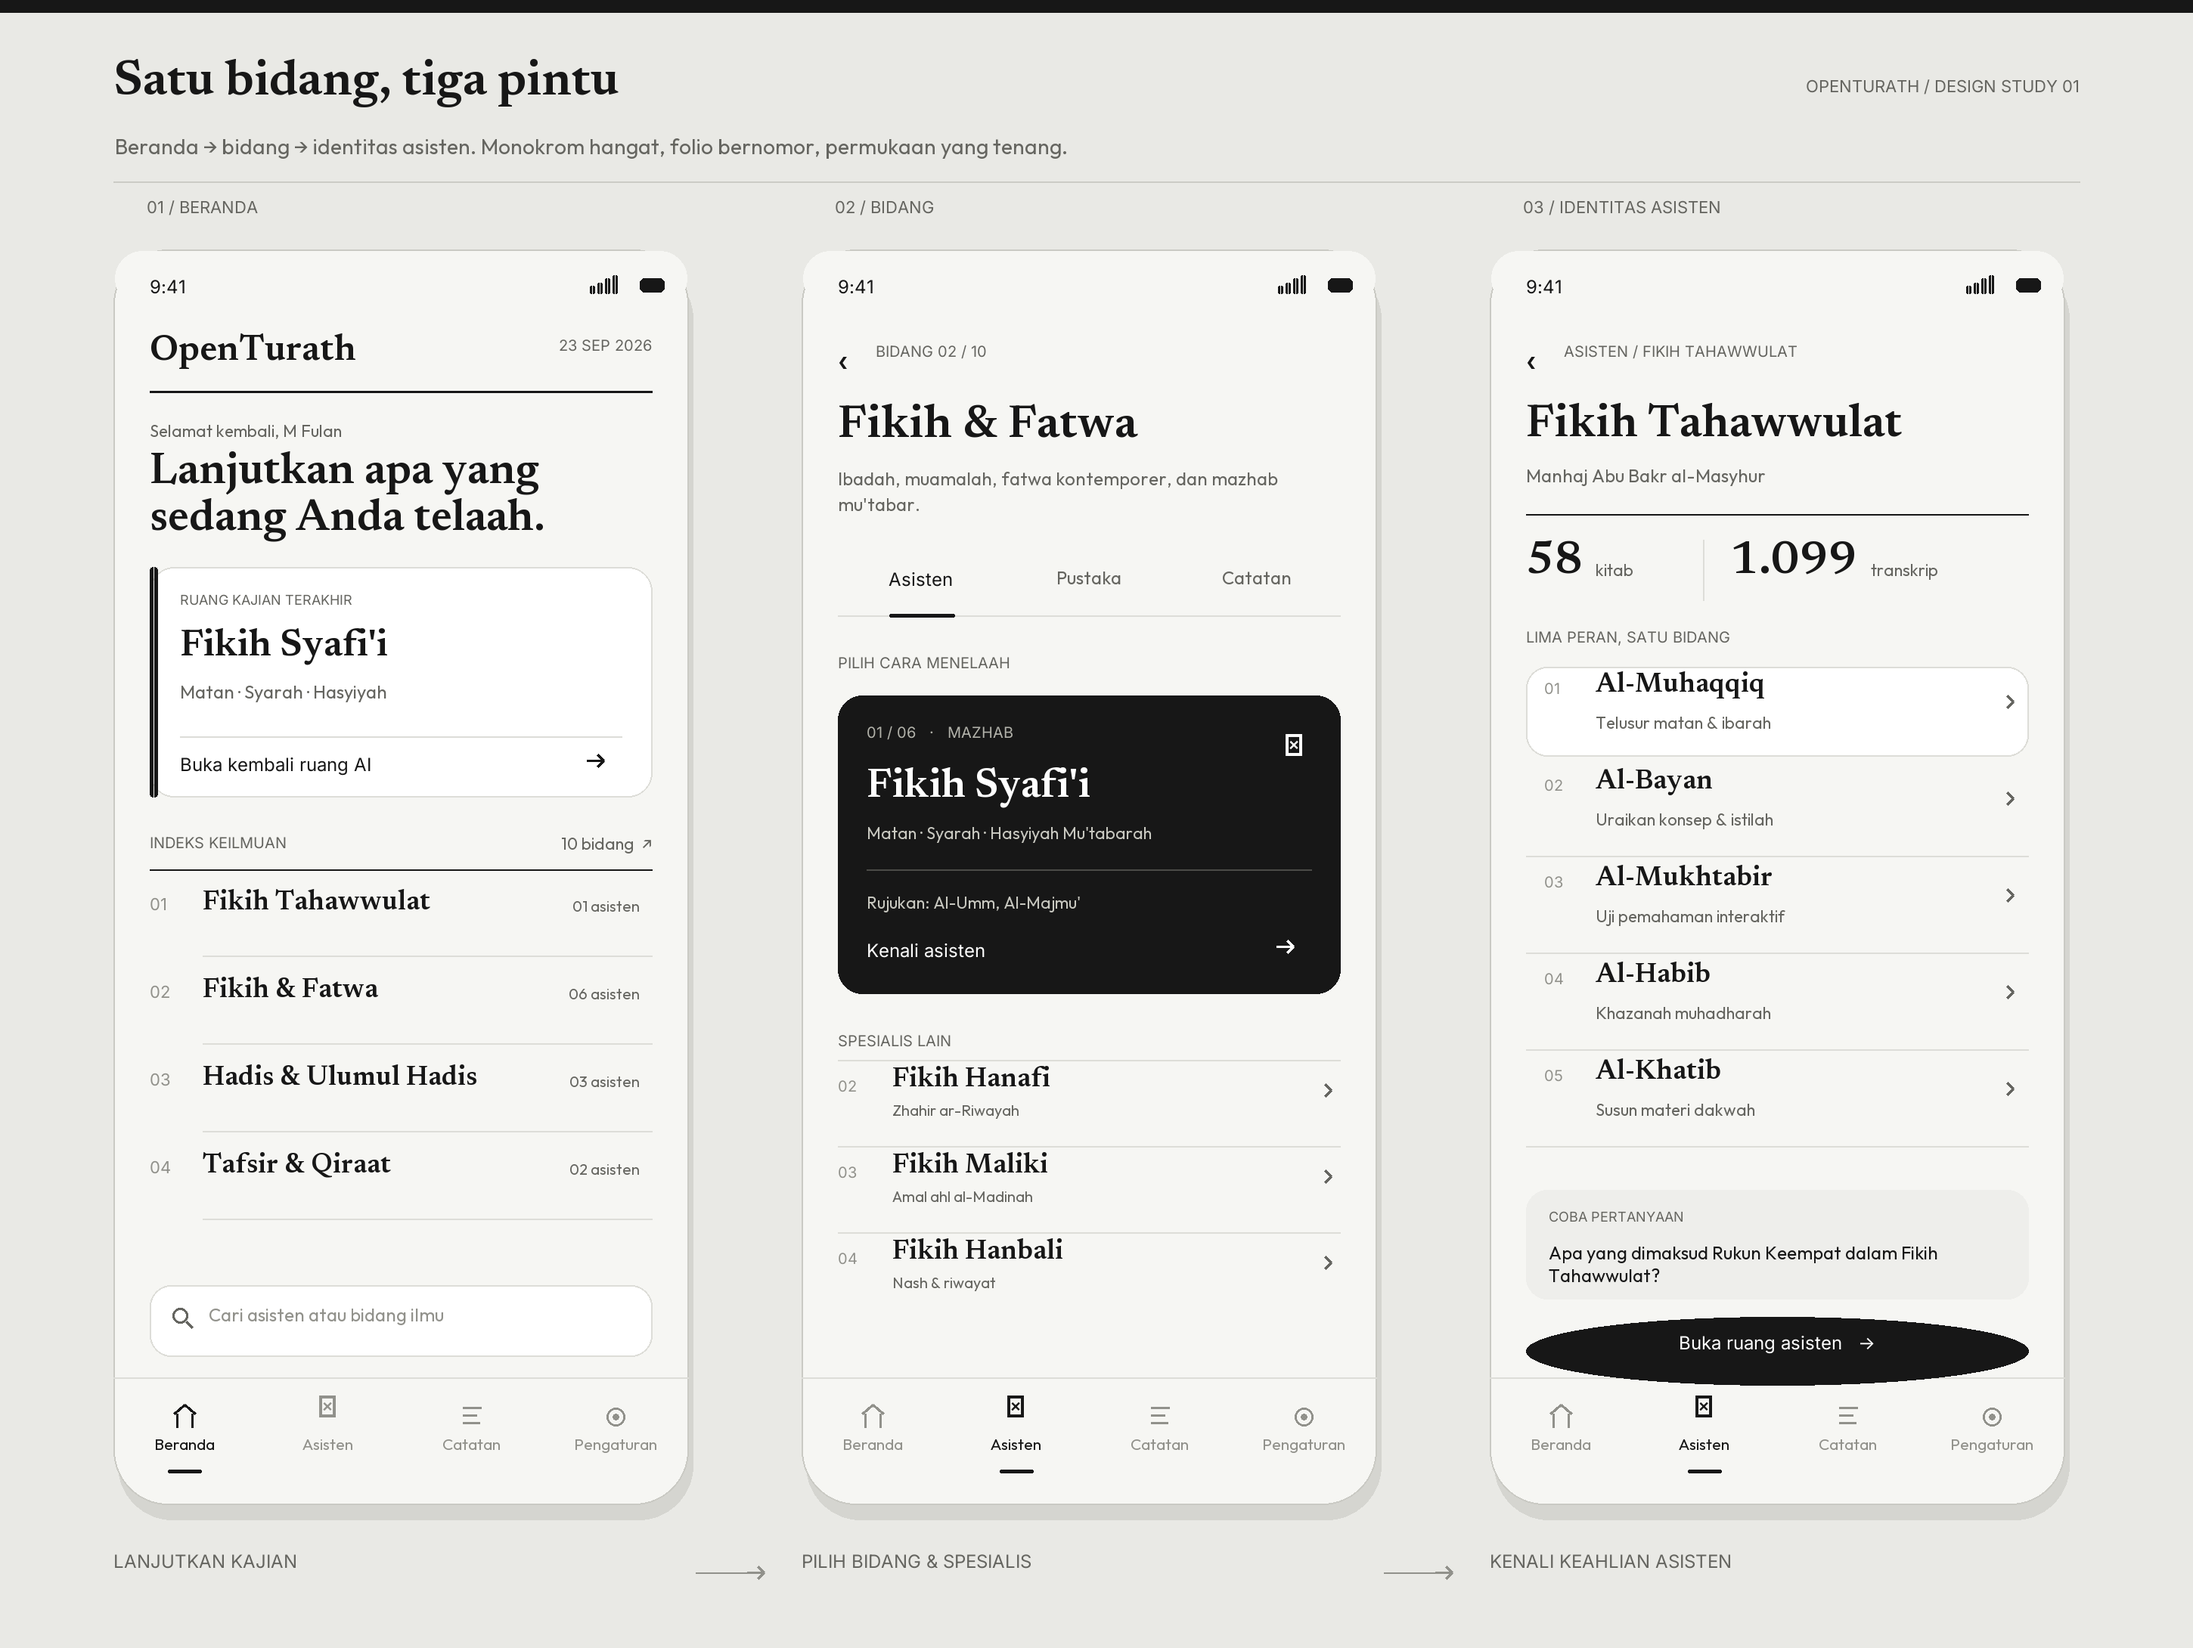
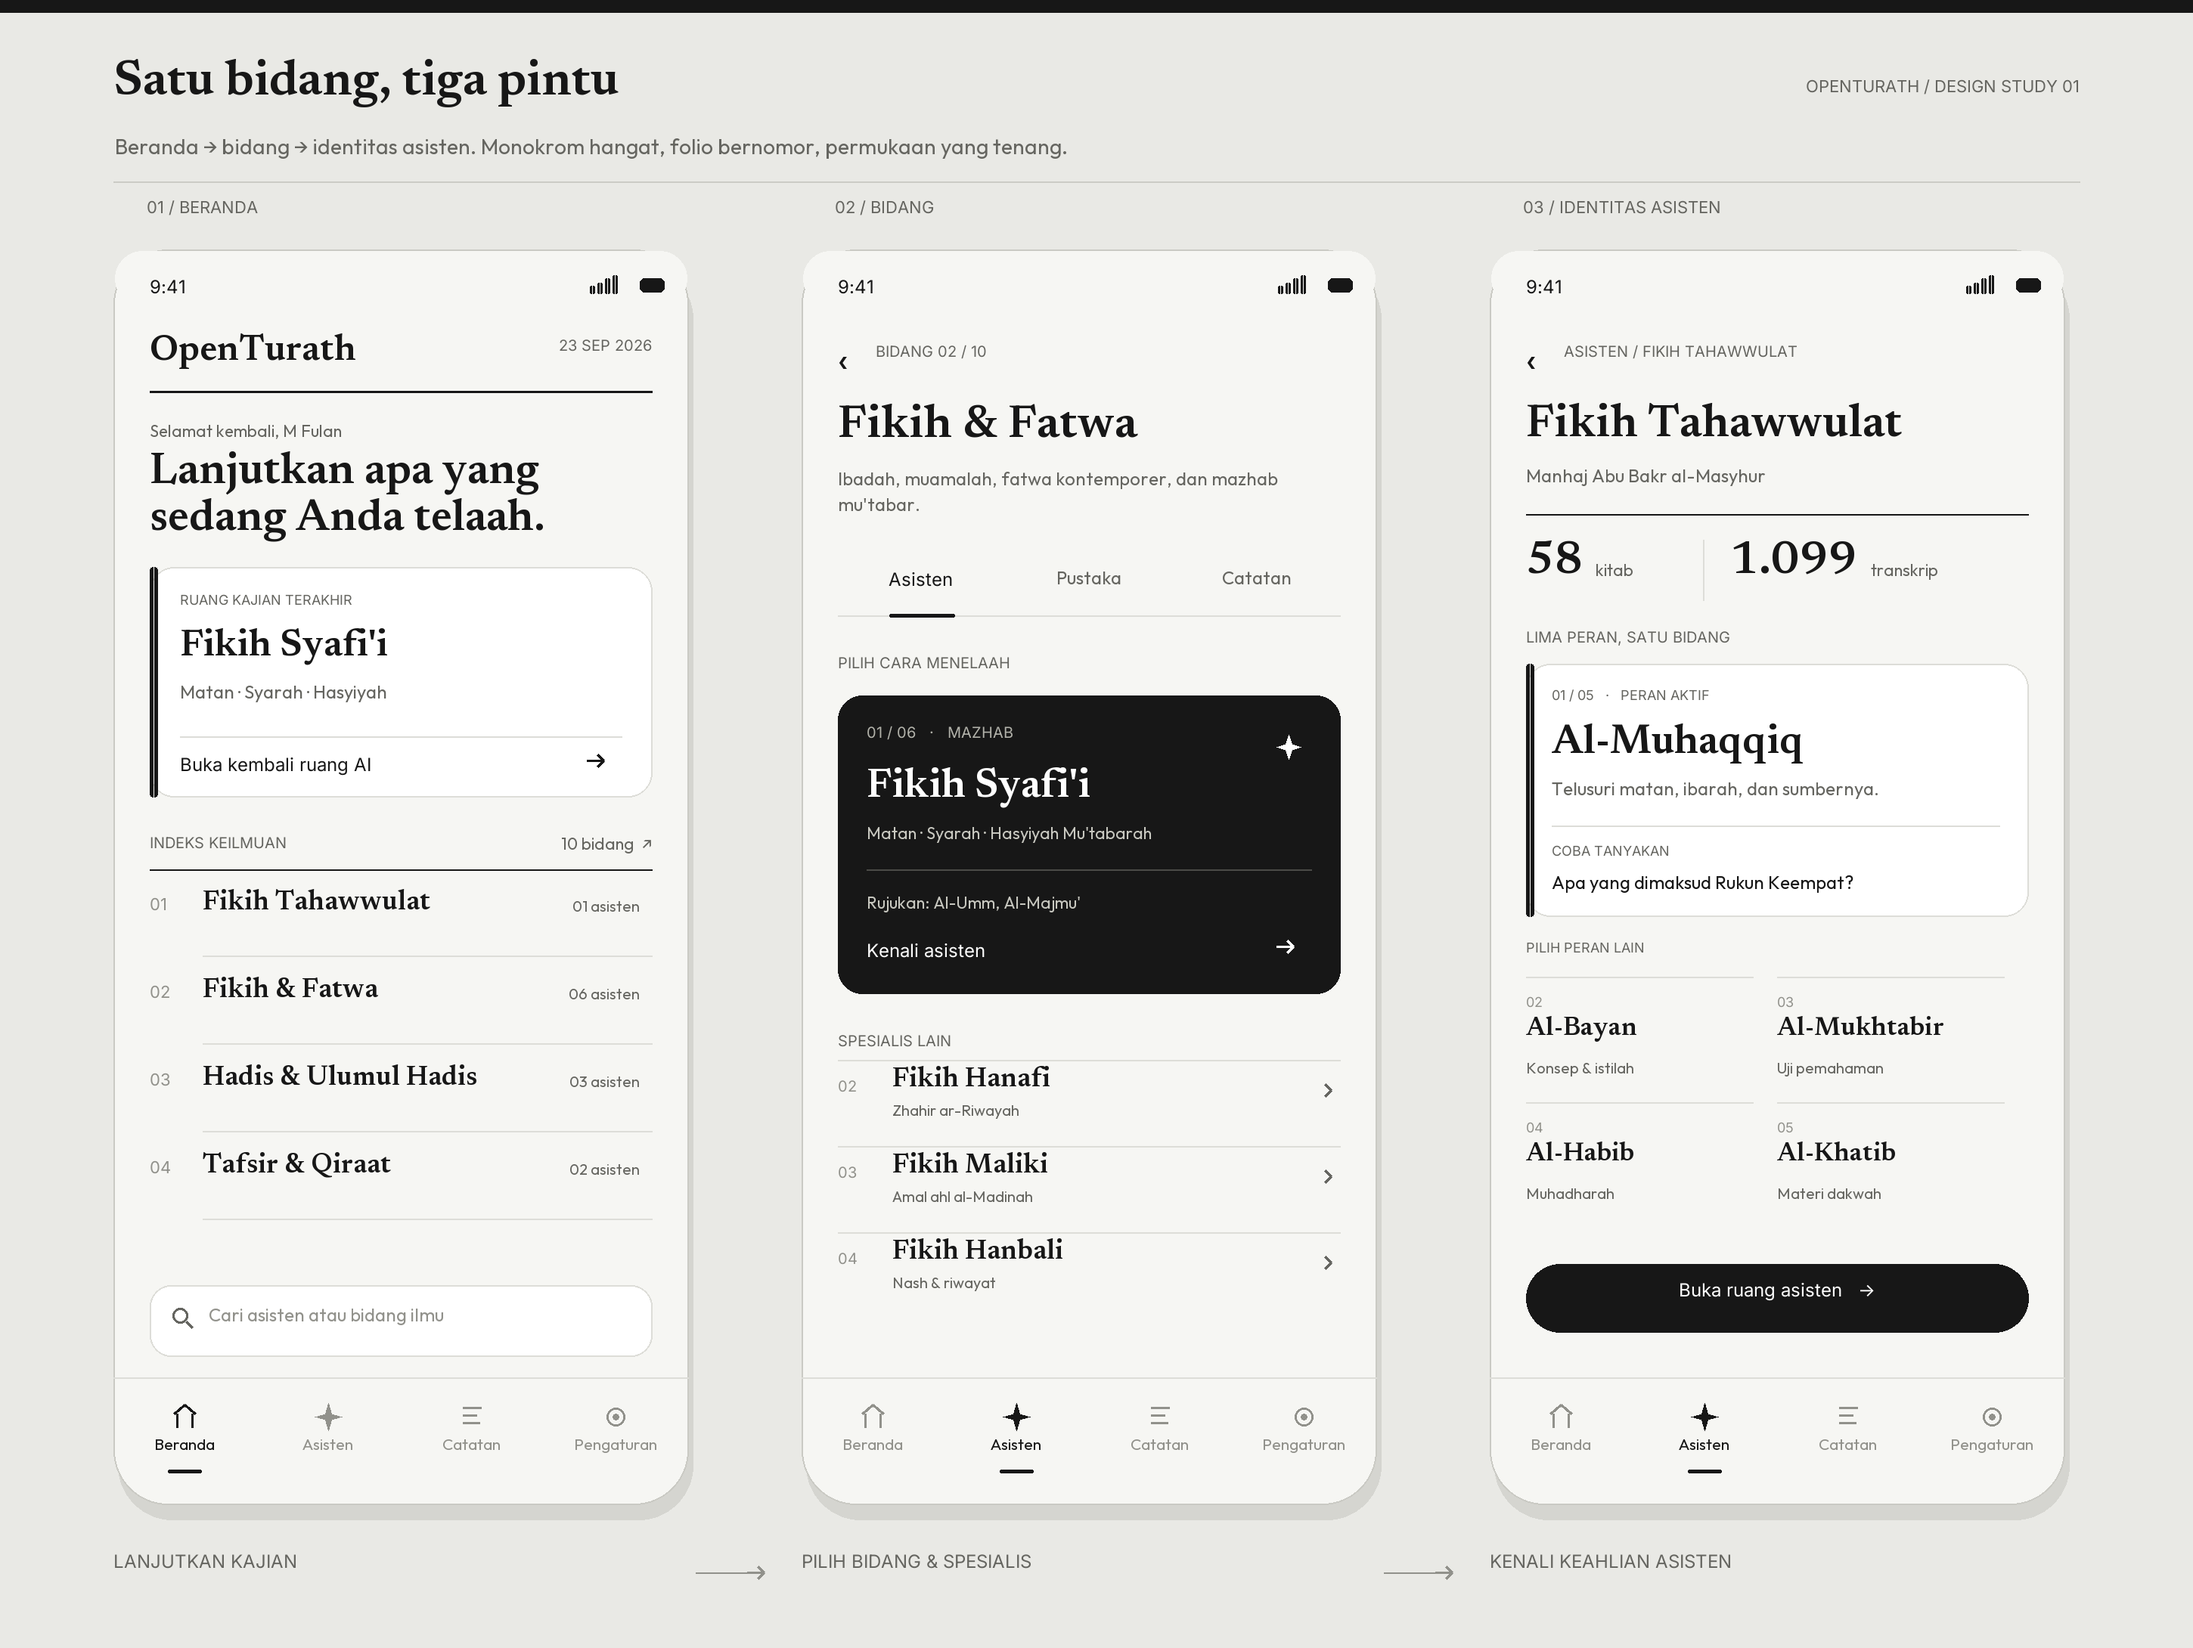
design(folio): refine assistant role workbench and mobile spacing

Changed region(s): [[0.6828, 0.4055, 0.869, 0.6862], [0.6828, 0.6862, 0.931, 0.8422], [0.8069, 0.6862, 0.869, 0.7174]]

diff --git a/design/open_turath_folio_illustrations.py b/design/open_turath_folio_illustrations.py
@@ -40,7 +40,7 @@ def font(name: str, size: float) -> ImageFont.FreeTypeFont:
 def box(draw, x, y, w, h, fill, radius=0, outline=None, width=1):
     rect = (round(x*S), round(y*S), round((x+w)*S), round((y+h)*S))
     if radius:
-        draw.rounded_rectangle(rect, radius=round(radius*S), fill=fill,
+        draw.rounded_rectangle(rect, radius=round(min(radius, w/2, h/2)*S), fill=fill,
                                outline=outline, width=round(width*S))
     else:
         draw.rectangle(rect, fill=fill, outline=outline, width=round(width*S))
@@ -104,6 +104,14 @@ def search_icon(draw, x, y):
     rule(draw, x+4, y+4, x+8, y+8, MUTED, 1.4)
 
 
+def sparkle(draw, x, y, size=10, color=INK):
+    points = [(x, y-size), (x+size*.22, y-size*.22), (x+size, y),
+              (x+size*.22, y+size*.22), (x, y+size),
+              (x-size*.22, y+size*.22), (x-size, y),
+              (x-size*.22, y-size*.22)]
+    draw.polygon([(round(px*S), round(py*S)) for px, py in points], fill=color)
+
+
 def nav(draw, x, y, active):
     rule(draw, x, y, x+380, y, LINE)
     labels = ["Beranda", "Asisten", "Catatan", "Pengaturan"]
@@ -117,7 +125,7 @@ def nav(draw, x, y, active):
             rule(draw, cx-5, y+24, cx-5, y+33, c, 1.5)
             rule(draw, cx+5, y+24, cx+5, y+33, c, 1.5)
         elif i == 1:
-            tx(draw, cx, y+12, "✦", 21, "ui", c, anchor="mt")
+            sparkle(draw, cx, y+26, 9, c)
         elif i == 2:
             for q, ww in enumerate((12, 9, 11)):
                 rule(draw, cx-6, y+20+q*5, cx-6+ww, y+20+q*5, c, 1.4)
@@ -223,7 +231,7 @@ def screen_field(draw, x, y):
     # An assistant is a dossier with a real scope and corpus, not a repeated row.
     box(draw, ox, oy+239, 332, 197, INK, 16)
     tx(draw, ox+19, oy+257, "01 / 06   ·   MAZHAB", 10, "strong", "#B2B2AA")
-    right(draw, ox+309, oy+258, "✦", 21, "ui", WHITE)
+    sparkle(draw, ox+298, oy+273, 8, WHITE)
     tx(draw, ox+19, oy+286, "Fikih Syafi'i", 27, "display", WHITE)
     tx(draw, ox+19, oy+323, "Matan · Syarah · Hasyiyah Mu'tabarah", 11, "ui", "#C8C8C0")
     rule(draw, ox+19, oy+354, ox+313, oy+354, "#4B4B47")
@@ -259,28 +267,30 @@ def screen_assistant(draw, x, y):
     tx(draw, ox+135, oy+135, "1.099", 31, "display")
     tx(draw, ox+228, oy+149, "transkrip", 11, "ui", MUTED)
     tx(draw, ox, oy+194, "LIMA PERAN, SATU BIDANG", 10, "strong", MUTED)
-    role_rows = [
-        ("01", "Al-Muhaqqiq", "Telusur matan & ibarah"),
-        ("02", "Al-Bayan", "Uraikan konsep & istilah"),
-        ("03", "Al-Mukhtabir", "Uji pemahaman interaktif"),
-        ("04", "Al-Habib", "Khazanah muhadharah"),
-        ("05", "Al-Khatib", "Susun materi dakwah"),
+    box(draw, ox, oy+218, 332, 167, WHITE, 16, LINE)
+    box(draw, ox, oy+218, 5, 167, INK, 2)
+    tx(draw, ox+17, oy+233, "01 / 05   ·   PERAN AKTIF", 9, "strong", MUTED)
+    tx(draw, ox+17, oy+257, "Al-Muhaqqiq", 27, "display")
+    tx(draw, ox+17, oy+293, "Telusuri matan, ibarah, dan sumbernya.", 12, "ui", MUTED)
+    rule(draw, ox+17, oy+325, ox+313, oy+325, LINE)
+    tx(draw, ox+17, oy+336, "COBA TANYAKAN", 9, "strong", MUTED)
+    wrapped(draw, ox+17, oy+355, "Apa yang dimaksud Rukun Keempat?", 285, 12, "ui", INK, 1.25, 1)
+    tx(draw, ox, oy+400, "PILIH PERAN LAIN", 9, "strong", MUTED)
+    roles = [
+        ("02", "Al-Bayan", "Konsep & istilah"),
+        ("03", "Al-Mukhtabir", "Uji pemahaman"),
+        ("04", "Al-Habib", "Muhadharah"),
+        ("05", "Al-Khatib", "Materi dakwah"),
     ]
-    for i, (no, name, desc) in enumerate(role_rows):
-        yy = oy+225+i*64
-        if i == 0:
-            box(draw, ox, yy-5, 332, 59, WHITE, 14, LINE)
-        else:
-            rule(draw, ox, yy+56, x+356, yy+56, LINE)
-        tx(draw, ox+12, yy+3, no, 10, "strong", FAINT)
-        tx(draw, ox+46, yy-2, name, 18, "display")
-        tx(draw, ox+46, yy+25, desc, 11, "ui", MUTED)
-        chevron(draw, x+345, yy+18, MUTED)
-    box(draw, ox, oy+566, 332, 72, SOFT, 14)
-    tx(draw, ox+15, oy+578, "COBA PERTANYAAN", 9, "strong", MUTED)
-    wrapped(draw, ox+15, oy+600, "Apa yang dimaksud Rukun Keempat dalam Fikih Tahawwulat?", 298, 12, "ui", INK, 1.25, 2)
-    box(draw, ox, oy+650, 332, 45, INK, 999)
-    tx(draw, ox+166, oy+662, "Buka ruang asisten   →", 12, "strong", WHITE, "mt")
+    for i, (no, name, desc) in enumerate(roles):
+        col, row = i%2, i//2
+        xx, yy = ox+col*166, oy+425+row*83
+        rule(draw, xx, yy, xx+150, yy, LINE)
+        tx(draw, xx, yy+11, no, 9, "strong", FAINT)
+        tx(draw, xx, yy+26, name, 17, "display")
+        tx(draw, xx, yy+54, desc, 10, "ui", MUTED)
+    box(draw, ox, oy+615, 332, 45, INK, 999)
+    tx(draw, ox+166, oy+627, "Buka ruang asisten   →", 12, "strong", WHITE, "mt")
 
 
 def screen_library(draw, x, y, arabic):
@@ -295,7 +305,9 @@ def screen_library(draw, x, y, arabic):
     search_icon(draw, ox+19, oy+205)
     tx(draw, ox+39, oy+196, "Cari judul, pengarang, atau istilah", 11, "ui", FAINT)
     tx(draw, ox, oy+254, "URUTAN: TAHUN WAFAT", 10, "strong", MUTED)
-    right(draw, x+356, oy+254, "Saring  ≡", 11, "strong")
+    right(draw, x+337, oy+254, "Saring", 11, "strong")
+    for j, ww in enumerate((12, 8, 5)):
+        rule(draw, x+343, oy+260+j*4, x+343+ww, oy+260+j*4, INK)
     rule(draw, ox, oy+278, x+356, oy+278, INK)
     entries = [
         ("01", "الأم", "Imam asy-Syafi'i · w. 204 H", "8 jilid   /   2.267 hlm."),
@@ -309,9 +321,8 @@ def screen_library(draw, x, y, arabic):
         tx(draw, ox+36, yy+53, meta, 12, "ui", MUTED)
         tx(draw, ox+36, yy+77, count, 10, "ui", FAINT)
         rule(draw, ox, yy+111, x+356, yy+111, LINE)
-    box(draw, ox, oy+679, 332, 1, LINE)
-    tx(draw, ox, oy+689, "Tampilkan 84 kitab lainnya", 11, "strong")
-    arrow(draw, x+347, oy+696)
+    tx(draw, ox, oy+654, "Tampilkan 84 kitab lainnya", 11, "strong")
+    arrow(draw, x+347, oy+662)
 
 
 def screen_book(draw, x, y, arabic):
@@ -338,10 +349,10 @@ def screen_book(draw, x, y, arabic):
         tx(draw, ox, yy, label, 9, "strong", MUTED)
         tx(draw, ox, yy+23, value, 13, "ui", INK)
         rule(draw, ox, yy+62, x+356, yy+62, LINE)
-    box(draw, ox, oy+624, 332, 47, INK, 999)
-    tx(draw, ox+166, oy+636, "Salin sitasi lengkap", 12, "strong", WHITE, "mt")
-    box(draw, ox, oy+681, 332, 41, WHITE, 999, LINE)
-    tx(draw, ox+166, oy+691, "Simpan sebagai rujukan", 11, "strong", INK, "mt")
+    box(draw, ox, oy+580, 332, 45, INK, 999)
+    tx(draw, ox+166, oy+591, "Salin sitasi lengkap", 12, "strong", WHITE, "mt")
+    box(draw, ox, oy+636, 332, 40, WHITE, 999, LINE)
+    tx(draw, ox+166, oy+646, "Simpan sebagai rujukan", 11, "strong", INK, "mt")
 
 
 def screen_notes(draw, x, y):
@@ -354,7 +365,9 @@ def screen_notes(draw, x, y):
     search_icon(draw, ox+19, oy+104)
     tx(draw, ox+39, oy+95, "Cari isi catatan atau rujukan", 11, "ui", FAINT)
     tx(draw, ox, oy+158, "SEMUA BIDANG", 10, "strong", MUTED)
-    right(draw, x+356, oy+158, "Fikih & Fatwa   ⌄", 11, "ui", INK)
+    right(draw, x+346, oy+158, "Fikih & Fatwa", 11, "ui", INK)
+    rule(draw, x+348, oy+164, x+352, oy+168, INK)
+    rule(draw, x+352, oy+168, x+356, oy+164, INK)
     rule(draw, ox, oy+184, x+356, oy+184, INK)
     # Mixed document types map to the existing BookmarkDocumentKind model.
     tx(draw, ox, oy+204, "01 / RUJUKAN KITAB", 9, "strong", MUTED)
@@ -373,8 +386,8 @@ def screen_notes(draw, x, y):
     tx(draw, ox, oy+570, "Titik telaah berikutnya", 21, "display")
     wrapped(draw, ox, oy+606, "Bandingkan uraian dalam Al-Umm dengan syarah yang tersedia di katalog.", 305, 11, "ui", MUTED, 1.38, 2)
     rule(draw, ox, oy+670, x+356, oy+670, LINE)
-    tx(draw, ox, oy+680, "Semua dokumen tersimpan", 11, "strong")
-    arrow(draw, x+346, oy+687)
+    tx(draw, ox, oy+650, "Semua dokumen tersimpan", 11, "strong")
+    arrow(draw, x+346, oy+657)
 
 
 def add_arabic(im, items):
